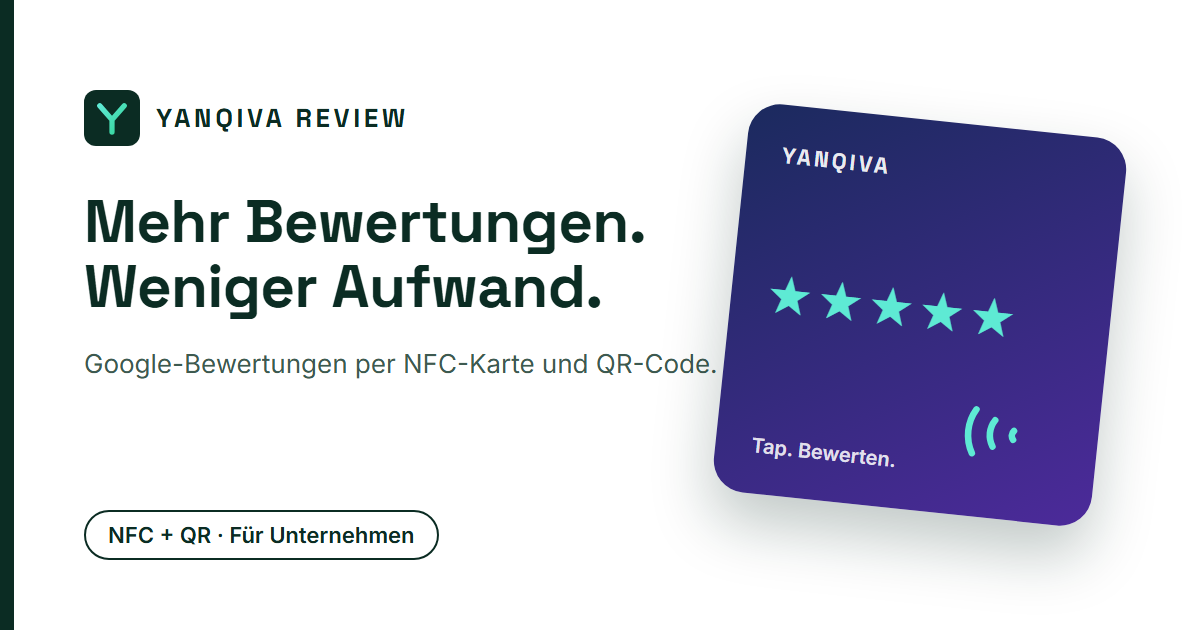
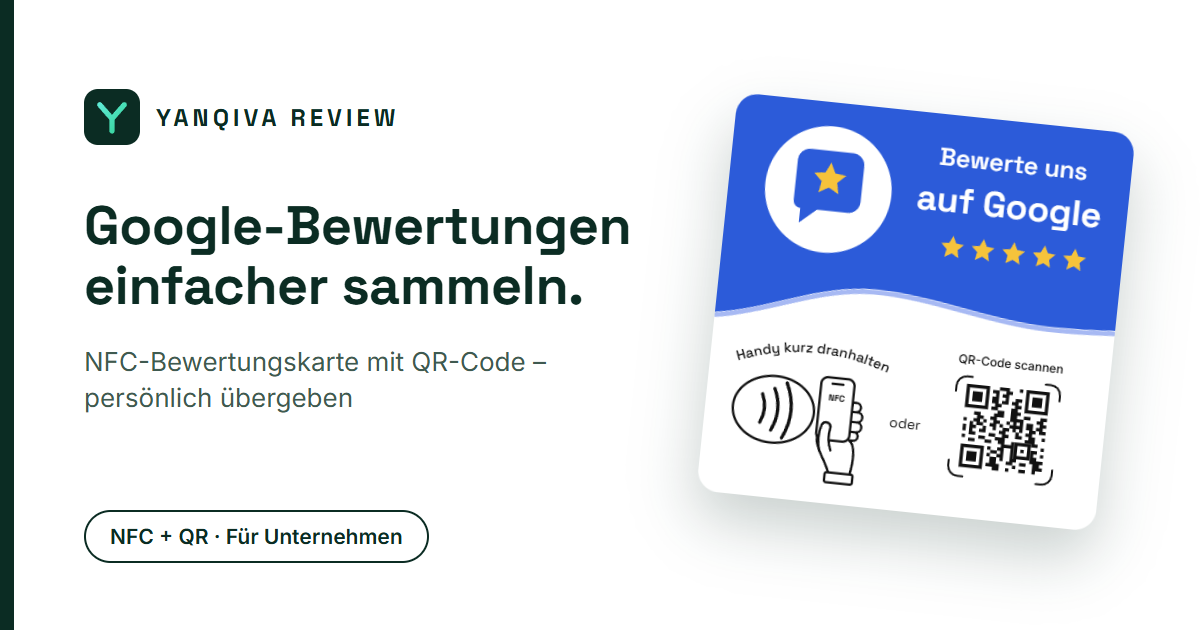
og-image neu: ohne Werbezusage (Google-Bewertungen einfacher sammeln), reproduzierbar per npm run og-image

diff --git a/index.html b/index.html
@@ -21,7 +21,7 @@
     <meta property="og:image" content="https://yanqiva-bewertung.de/og-image.png" />
     <meta property="og:image:width" content="1200" />
     <meta property="og:image:height" content="630" />
-    <meta property="og:image:alt" content="YANQIVA REVIEW: Mehr Bewertungen. Weniger Aufwand. NFC-Karte mit Sternebewertung" />
+    <meta property="og:image:alt" content="YANQIVA REVIEW: Google-Bewertungen einfacher sammeln. NFC-Bewertungskarte mit QR-Code" />
     <meta name="twitter:card" content="summary_large_image" />
     <meta name="twitter:title" content="YANQIVA REVIEW – Google-Bewertungen einfacher sammeln" />
     <meta name="twitter:description" content="Google-Bewertungen einfacher sammeln: NFC-Karte und QR-Code führen mit einem Tap zur Bewertungsseite. Lieferung vor Ort im Raum Speyer bis Karlsruhe. Ab 60 €." />

diff --git a/bestellen/index.html b/bestellen/index.html
@@ -21,7 +21,7 @@
     <meta property="og:image" content="https://yanqiva-bewertung.de/og-image.png" />
     <meta property="og:image:width" content="1200" />
     <meta property="og:image:height" content="630" />
-    <meta property="og:image:alt" content="YANQIVA REVIEW: Mehr Bewertungen. Weniger Aufwand. NFC-Karte mit Sternebewertung" />
+    <meta property="og:image:alt" content="YANQIVA REVIEW: Google-Bewertungen einfacher sammeln. NFC-Bewertungskarte mit QR-Code" />
     <meta name="twitter:card" content="summary_large_image" />
     <meta name="twitter:title" content="Bestellen – YANQIVA REVIEW" />
     <meta name="twitter:description" content="YANQIVA REVIEW bestellen: NFC-Bewertungskarte mit QR-Code für mehr Google-Bewertungen. Für Unternehmen, Zahlung per Rechnung." />
